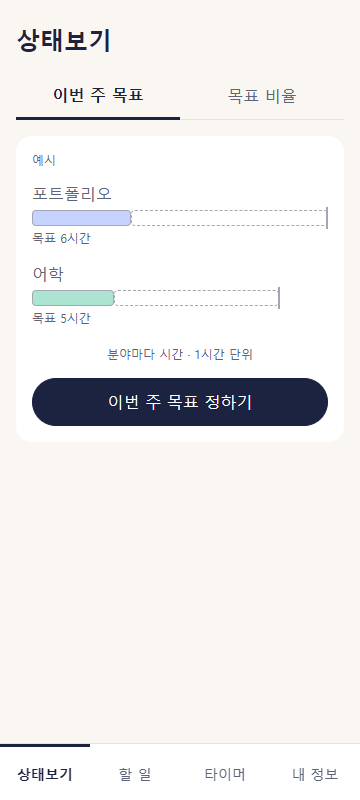
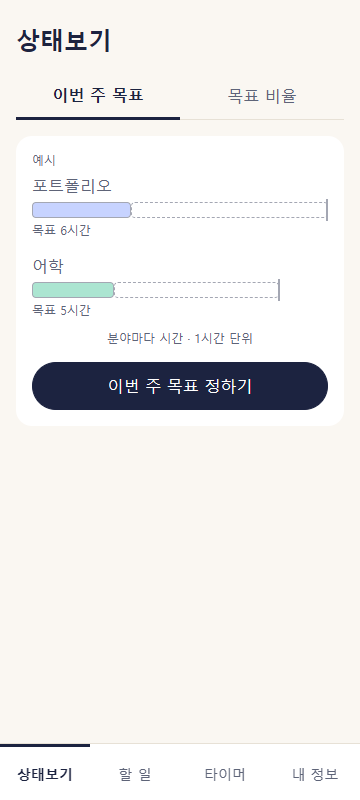
원샷 v2 고침6: 목표 없는 주 카드 간격을 보이는 거리로(검토 1/3)
- .growth-example-item 위아래 패딩 8 → 0, 예시 줄 둘 사이는 margin 16(전과 같음)
- 보이는 거리: 이름표 → 첫 줄 이름 글 6 · 마지막 줄의 마지막 보이는 요소(막대 아래 「목표 n시간」) → 보조 줄 12 · 보조 줄 → 단추 16
- fix6.spec: li 상자 대신 글·막대 요소 가장자리로 잼. 막대 아래 끝 → 보조 줄(32 = 12 + 「목표 n시간」 줄 16 + 줄 사이 4), 줄 사이 16, li 패딩 0도 단언
- .growth-example-item은 이 카드에서만 쓴다(components/growth-views.tsx GoalExample 하나)

Changed region(s): [[0.0917, 0.2188, 0.9167, 0.5312], [0.8861, 0.25, 0.9167, 0.2812]]

diff --git a/app/globals.css b/app/globals.css
@@ -717,7 +717,10 @@ button.after-save-line:active { background: var(--color-notice-bg); }
 .growth-example { margin: 0; }
 .growth-example-label { margin: 0; font: 500 12px/16px var(--font-family); color: var(--color-text-sub); }
 .growth-list.growth-example-list { margin-top: 6px; } /* .growth-list(뒤에 있음)의 8을 이긴다 */
-.growth-example-item { display: flex; flex-wrap: wrap; gap: var(--space-1) var(--space-3); padding: var(--space-2) 0; font: var(--font-body); color: var(--color-text-sub); }
+/* 보이는 거리로 맞춘다(고침6 검토): 줄 위아래 패딩 없음 → 이름표 → 첫 줄 이름 글 6(목록 margin), 마지막 줄의 마지막 보이는 요소 → 보조 줄 12(보조 줄 margin).
+   예시 줄 둘 사이는 전과 같은 16(옛 패딩 8 + 8) */
+.growth-example-item { display: flex; flex-wrap: wrap; gap: var(--space-1) var(--space-3); padding: 0; font: var(--font-body); color: var(--color-text-sub); }
+.growth-example-item + .growth-example-item { margin-top: var(--space-4); }
 .growth-example-item .growth-goal-bar { opacity: 0.4; }
 /* 분야 줄: 윗줄 이름 · 오른쪽 값(넘치면 다음 줄로, 말줄임 없음), 아래 막대·글은 전체 폭 */
 .growth-list { list-style: none; margin: var(--space-2) 0 0; padding: 0; }
